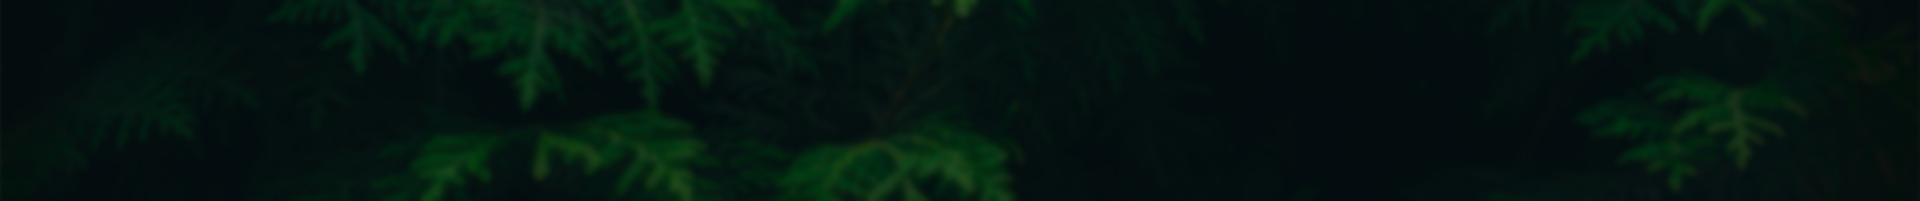
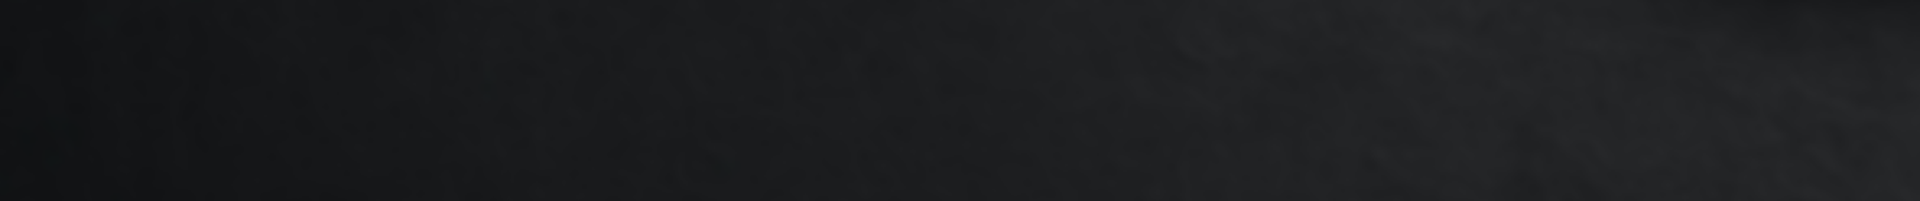
Change top and bottom background.

diff --git a/src/components/top-banner-background.js b/src/components/top-banner-background.js
@@ -20,7 +20,7 @@ const MainImage = styled(Image)`
 const TopBannerBackground = () => {
   const data = useStaticQuery(graphql`
     query {
-      file(relativePath: { eq: "top-banner-background.png" }) {
+      file(relativePath: { eq: "top-banner-background.jpg" }) {
         childImageSharp {
           fluid(maxWidth: 1920, quality: 100) {
             ...GatsbyImageSharpFluid
